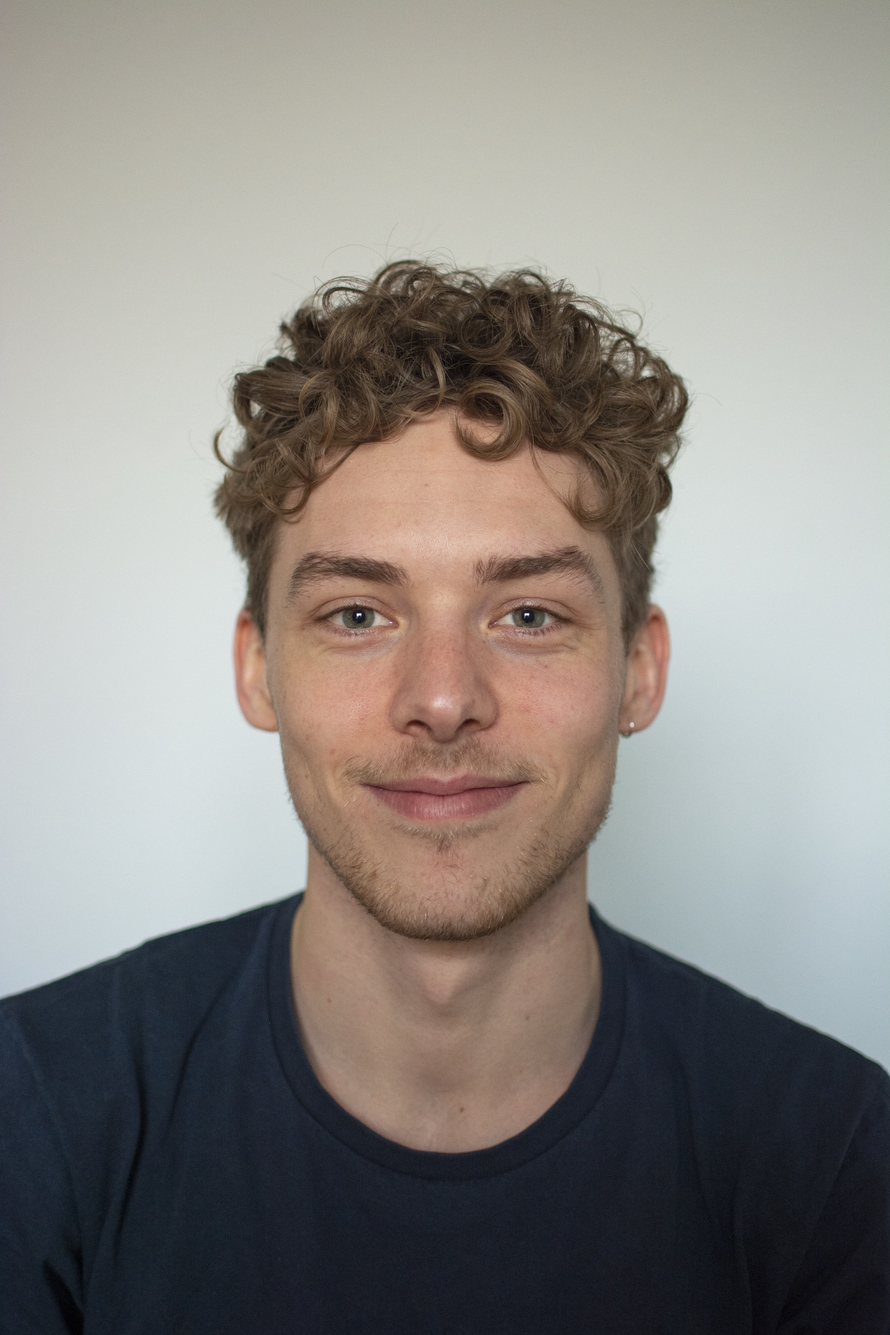
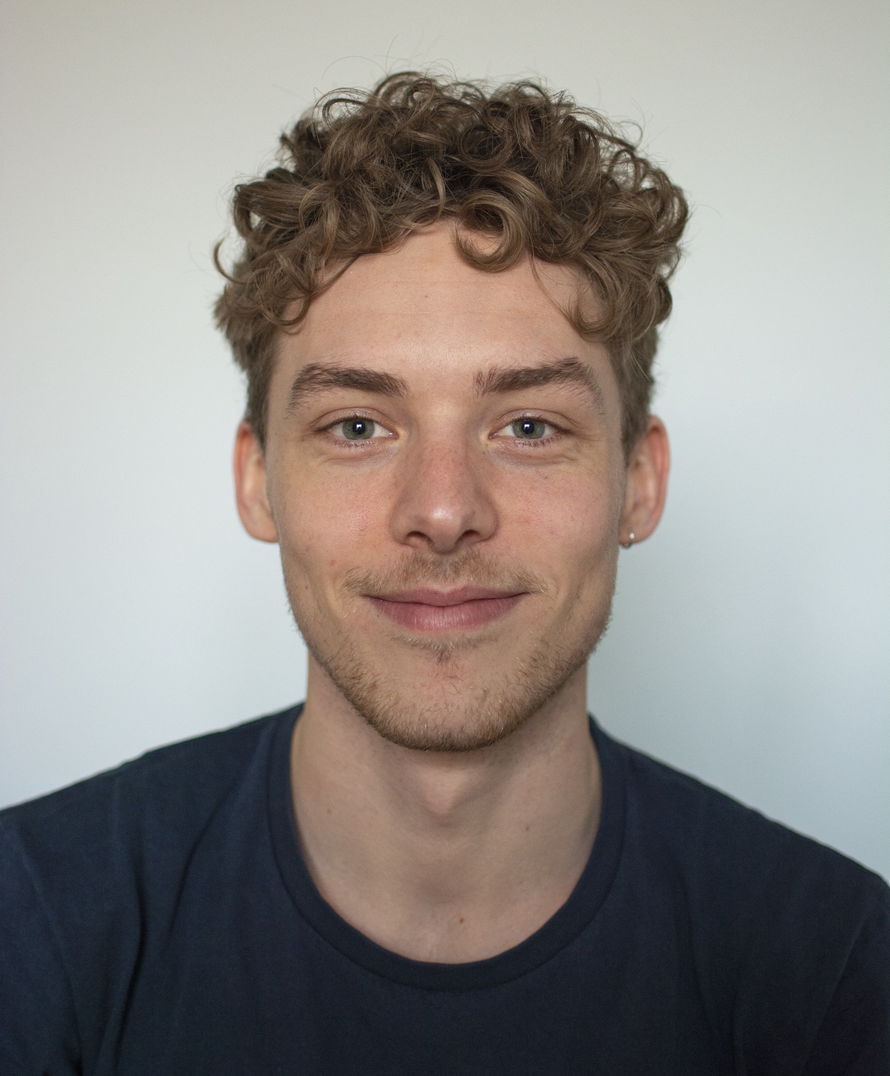
update

diff --git a/about.html b/about.html
@@ -3,7 +3,7 @@ layout: about
 title: About
 ---
 
-<img src="assets/images/Johannes.jpg" alt="Picture" width="200" height="300" align ="right">
+<img src="assets/images/Johannes.jpg" alt="Picture" width="200" height="242" align ="right">
 
 <p>
 Hi, my name is Johannes, and I'm currently a second year PhD Student at the William Harvey Research Institute in London. My project is to investigate lymphocytes in the perioperative period. Besides immunology I'm super interested in data science and am trying to get more into machine learning at the moment. So this blog serves as my dumpsite for projects and articles. </p>
